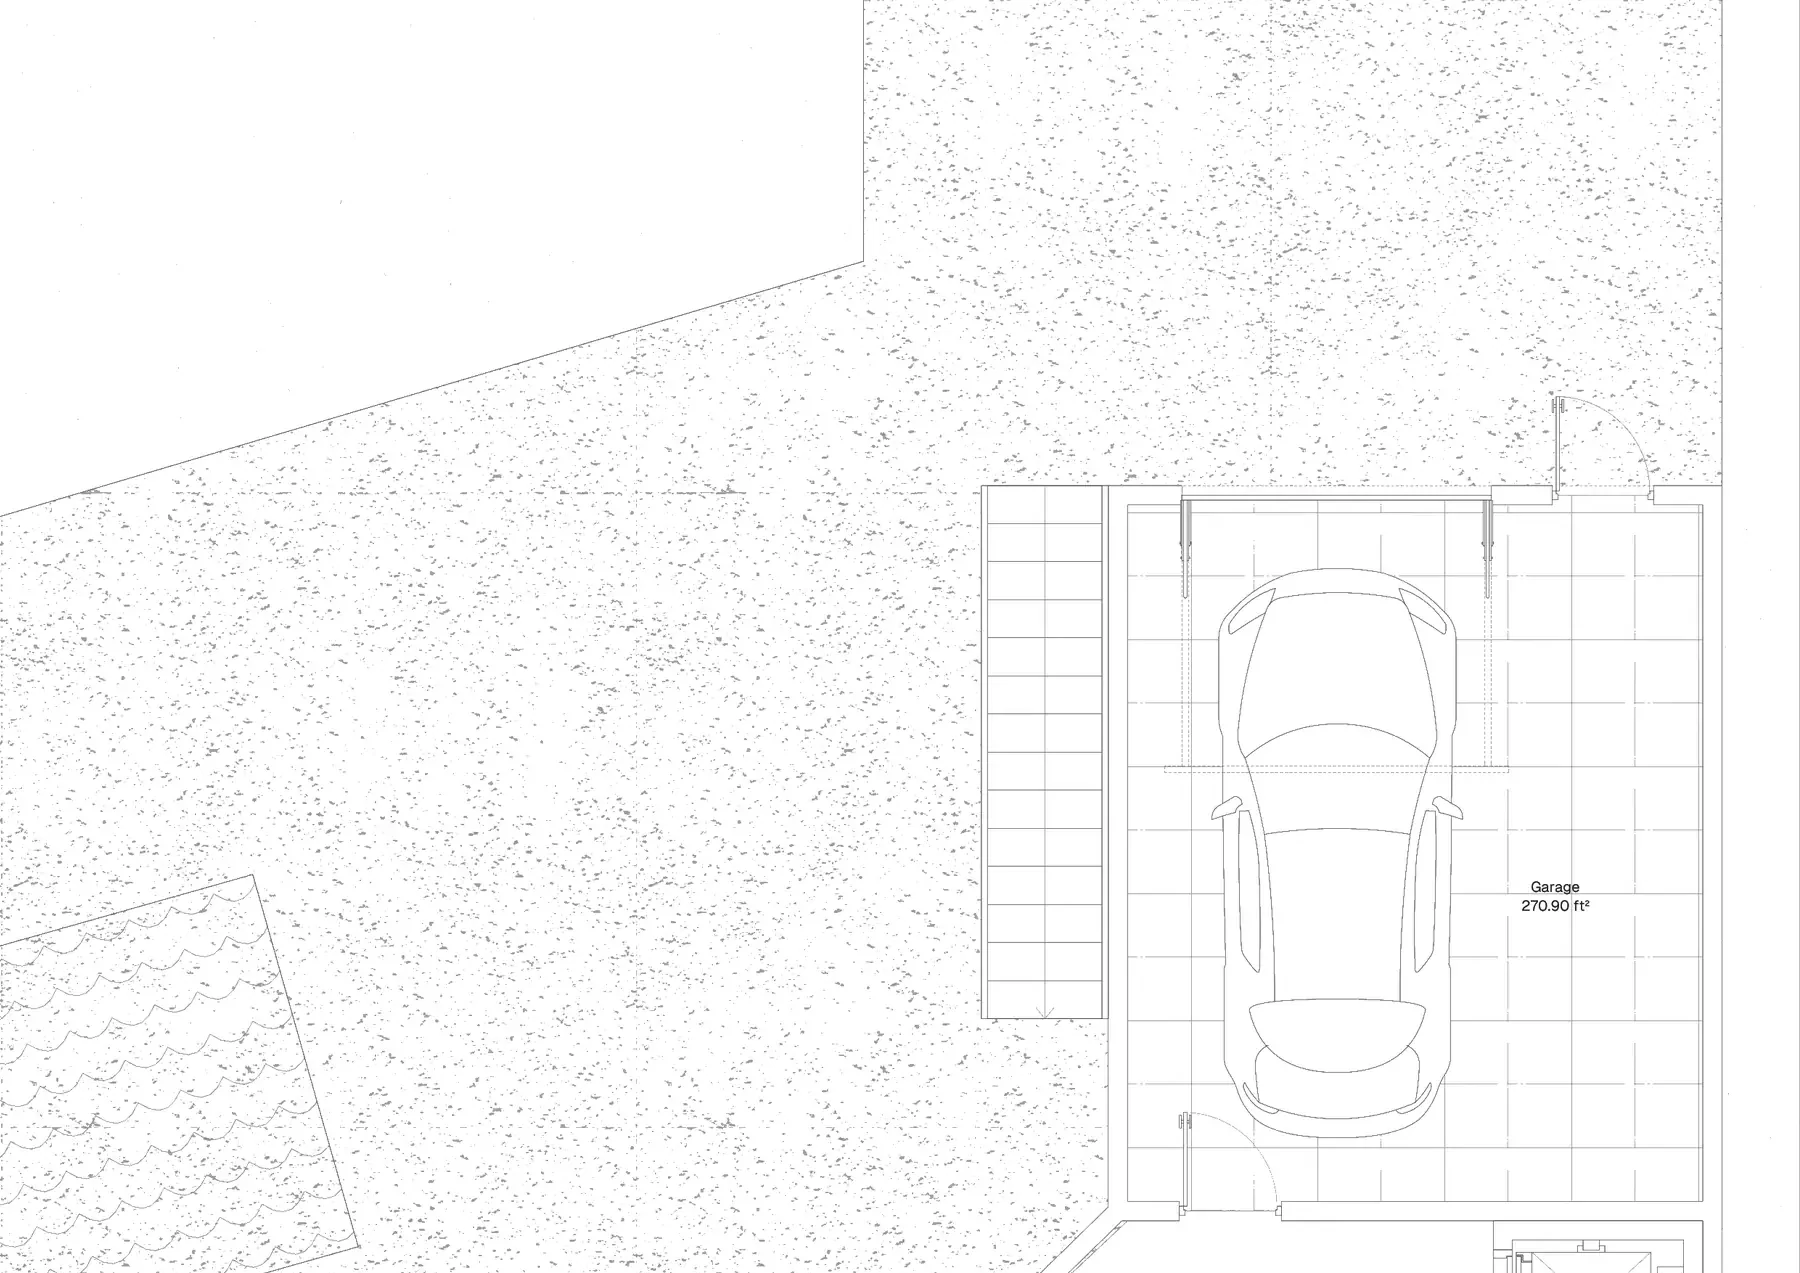
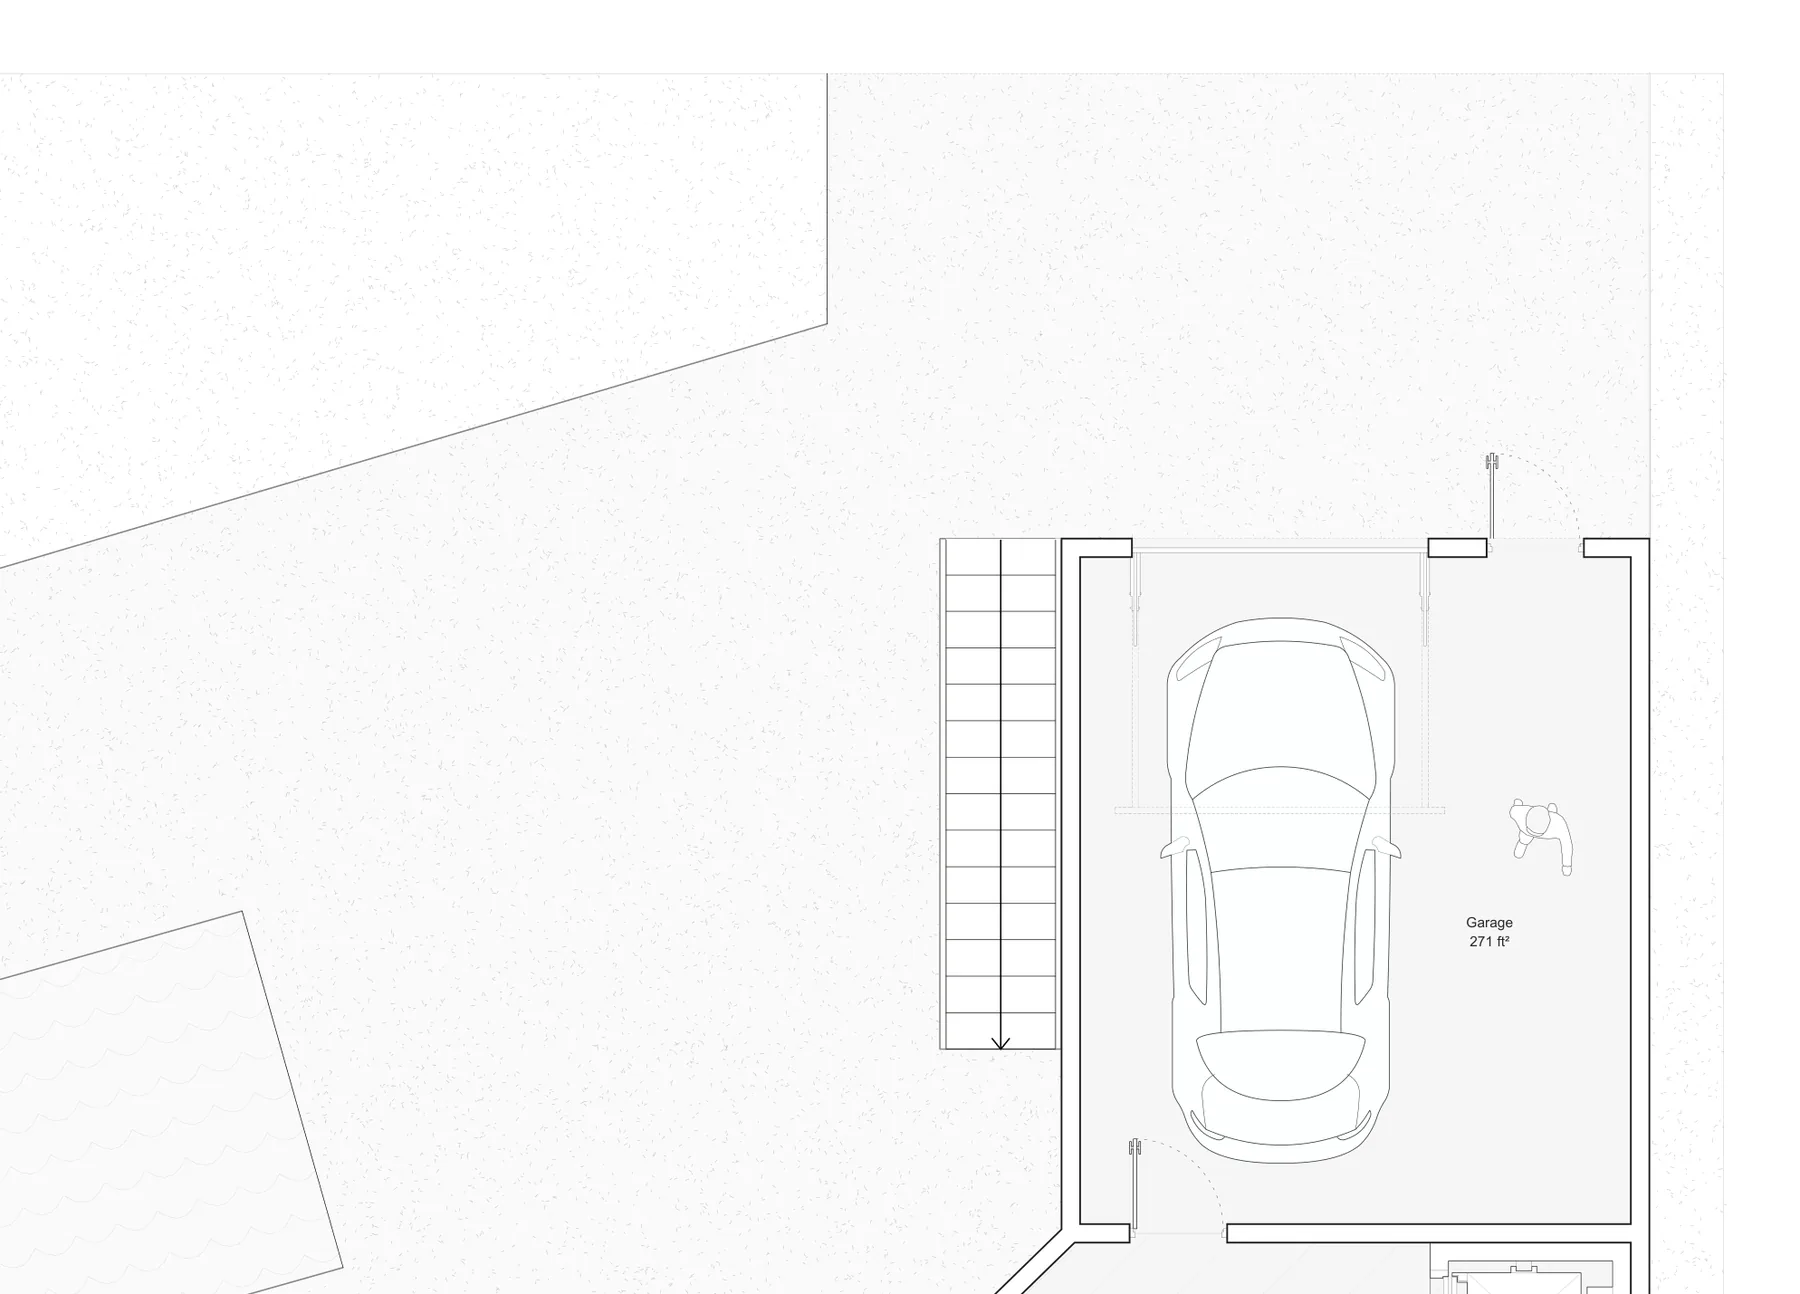
115 Almond: new floor plans (Theo's lineweight pass), zoom + pinch tiles regenerated

diff --git a/115-almond.html b/115-almond.html
@@ -202,7 +202,7 @@
             <div class="plate plate--plan bleed reveal" data-zoom="almond/images/almond-plan-level-1-zoom.webp" data-pz="almond/images/almond-plan-level-1.webp" data-pz-tiles="almond/images/tiles/level-1" data-pz-grid="2x2" data-pz-bg="#fff" role="button" aria-label="Magnify 01 Level 1 · Lower" tabindex="0">
               <img src="almond/images/almond-plan-level-1.webp"
                    alt="Level 1 floor plan of 115 Almond showing the gym, caretaker's bedroom with bathroom and closet, garage, elevator, pool storage and the 40 foot lap pool on the terrace"
-                   width="2000" height="1414" loading="lazy" decoding="async" />
+                   width="2000" height="1438" loading="lazy" decoding="async" />
               <span class="tag"><span class="num">01</span>Level 1 · Lower</span>
               <span class="zoom">Click to inspect</span>
             </div>
@@ -210,7 +210,7 @@
             <div class="plate plate--plan bleed reveal" data-zoom="almond/images/almond-plan-level-2-zoom.webp" data-pz="almond/images/almond-plan-level-2.webp" data-pz-tiles="almond/images/tiles/level-2" data-pz-grid="2x2" data-pz-bg="#fff" role="button" aria-label="Magnify 02 Level 2 · Main" tabindex="0">
               <img src="almond/images/almond-plan-level-2.webp"
                    alt="Level 2 floor plan of 115 Almond showing the combined living, dining and music room, kitchen and pantry, main bedroom with walk-in closet, laundry, elevator and the outdoor deck with recessed hot tub"
-                   width="2000" height="1414" loading="lazy" decoding="async" />
+                   width="2000" height="1669" loading="lazy" decoding="async" />
               <span class="tag"><span class="num">02</span>Level 2 · Main</span>
               <span class="zoom">Click to inspect</span>
             </div>
